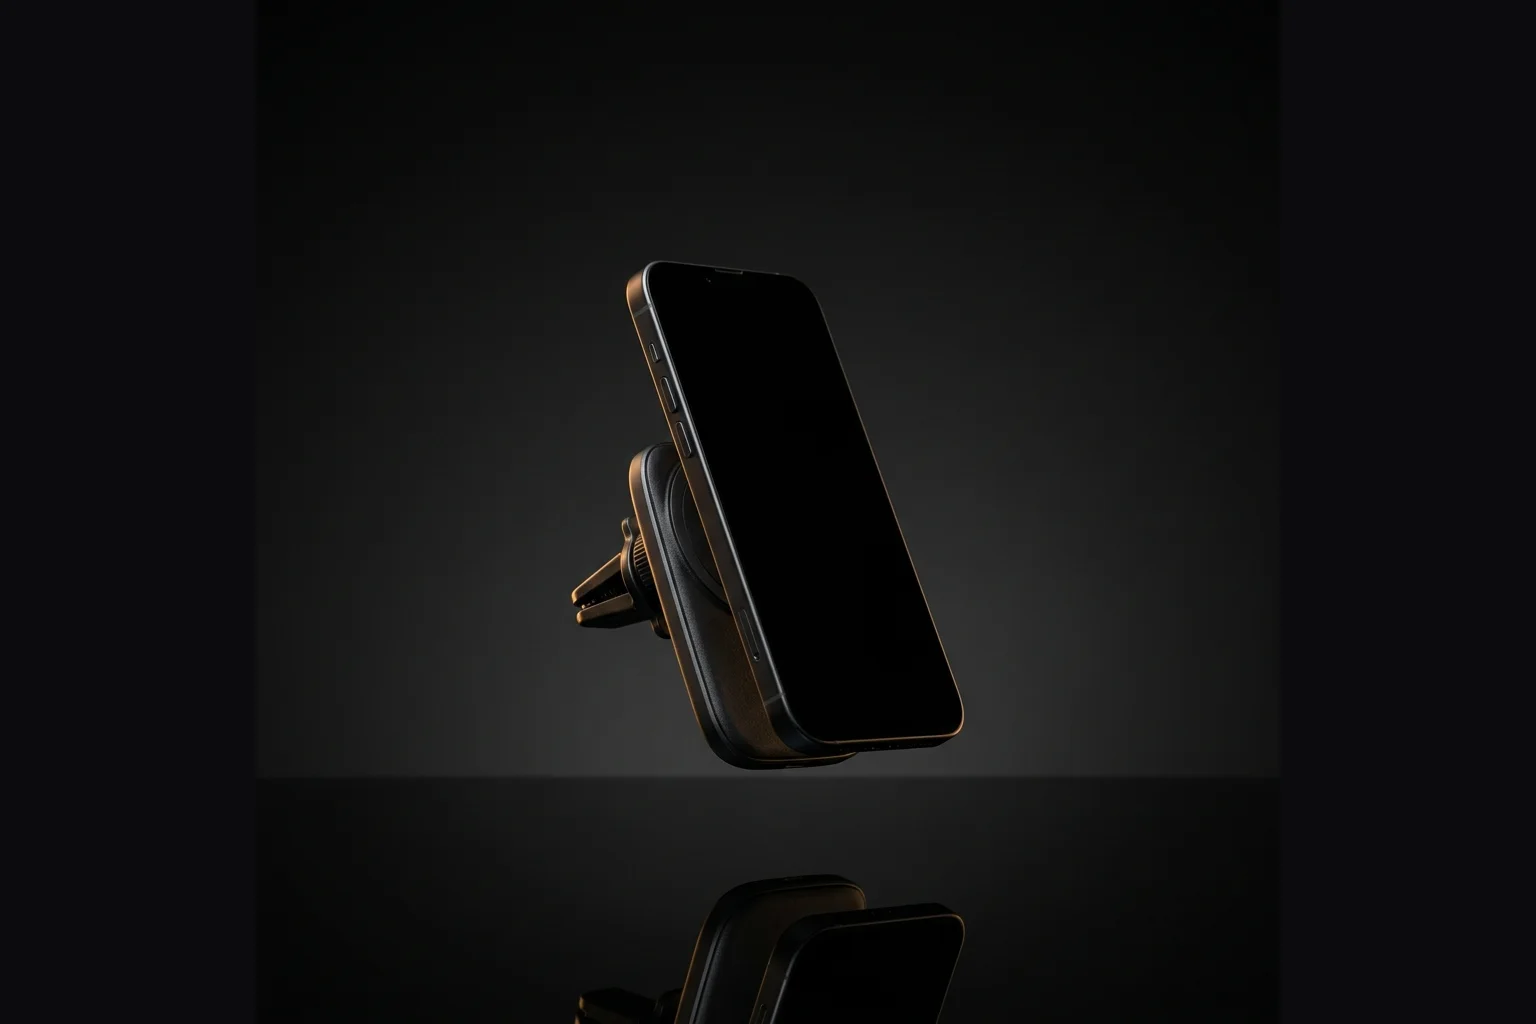
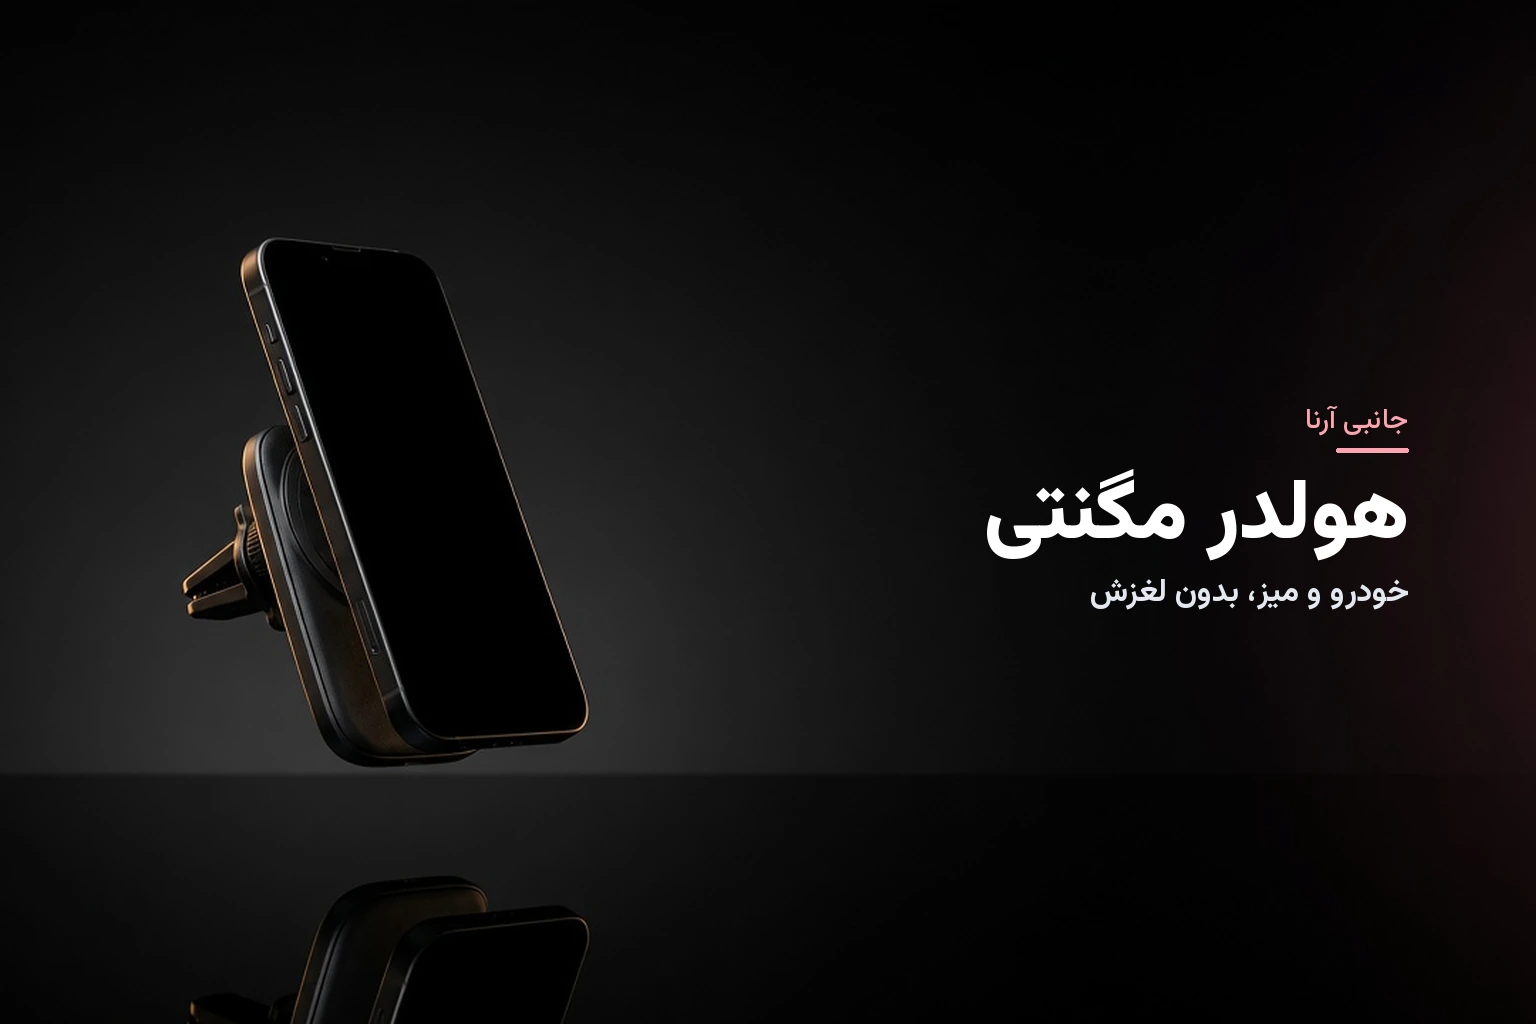
style: put a short headline on the hero photos
The wide laptop crop was leaving a dark band, and the banner never named the product. These slides keep the product and a Persian line inside both the phone and laptop frame.

Changed region(s): [[0.0312, 0.2188, 0.9375, 0.7812], [0.4375, 0.9062, 0.4688, 1.0], [0.1875, 0.9062, 0.2188, 1.0]]

diff --git a/src/pages/Home.tsx b/src/pages/Home.tsx
@@ -254,7 +254,7 @@ export default function Home() {
         <div
           className={`relative rounded-2xl overflow-hidden border border-slate-200/90 dark:border-white/[0.08] shadow-lg dark:shadow-2xl transition-colors duration-500 touch-pan-y ${
             heroIsArt
-              ? 'bg-gradient-to-br from-white via-slate-50 to-rose-50/30 dark:from-[var(--color-surface-dark)] dark:via-[var(--color-surface-header-dark)] dark:to-[var(--color-surface-footer-dark)] aspect-[4/3] sm:aspect-[16/9] lg:aspect-[5/2]'
+              ? 'bg-gradient-to-br from-white via-slate-50 to-rose-50/30 dark:from-[var(--color-surface-dark)] dark:via-[var(--color-surface-header-dark)] dark:to-[var(--color-surface-footer-dark)] aspect-[4/3] sm:aspect-[16/9]'
               : 'bg-gradient-to-br from-[#fecdd3] via-[#ffe4e6] to-[#fff5f6] dark:from-[#3b1020] dark:via-[#241018] dark:to-[#120c14] aspect-[4/3] lg:aspect-[3/2]'
           }`}
           onTouchStart={(e) => { mobileTouchX.current = e.touches[0].clientX; }}
